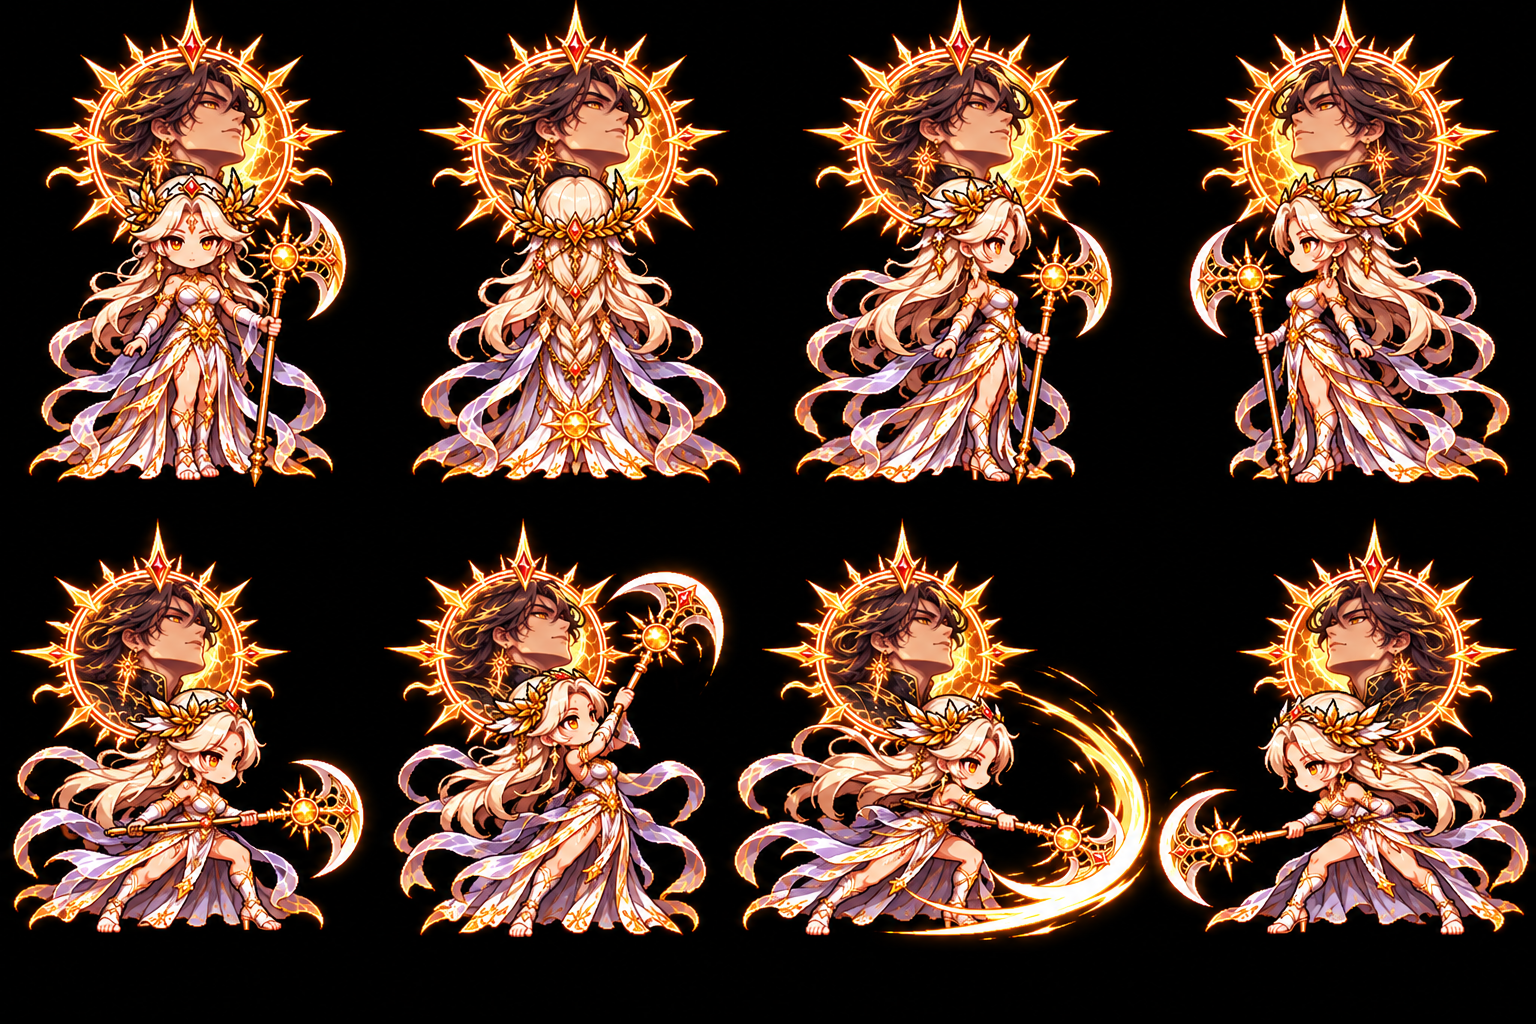
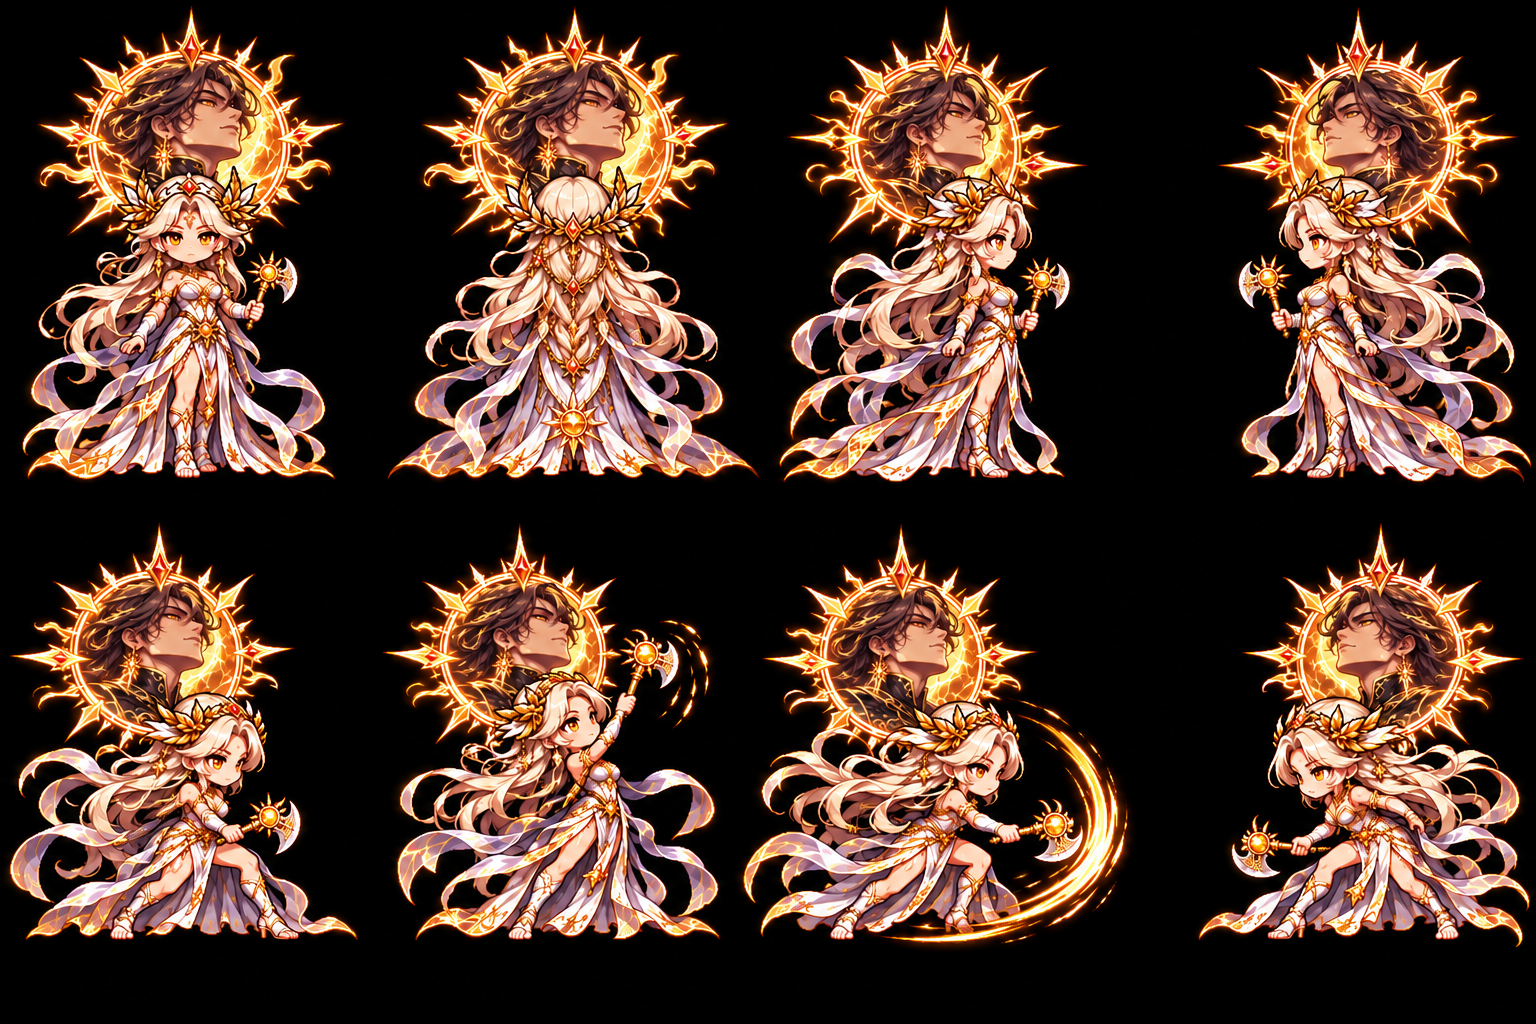
이클립스 태양 검격 모양을 사용자 그림대로(몸 양옆에서 앞 꼭짓점으로 모이는 날 5가지)·태양 모습 그림 새로 (0.49.19)

diff --git a/apps/client/src/patchNotes/latest.ts b/apps/client/src/patchNotes/latest.ts
@@ -4,24 +4,33 @@ import type { PatchNote } from "./types";
 // 이 파일이 12KB를 넘으면 오래된 버전을 새 묶음 파일로 옮기고 index.ts에 이어 붙임
 export const NOTES: PatchNote[] = [
   {
+    version: "0.49.19",
+    date: "2026-11-05",
+    items: {
+      ko: ["이클립스 태양: 검격 모양을 사용자 그림대로 (몸 양옆에서 앞쪽 꼭짓점으로 모이는 날 · 1 낮고 넓게 → 2 길게 → 3 작게 기울여 → 4 가늘고 길게 → 5 더 길게 깊게) · 태양 모습 그림 새로"],
+      en: ["Eclipse Sun: slash shapes now follow the user's sketches (a blade from both sides of her body to a point ahead · 1 low and wide → 2 long → 3 small and tilted → 4 thin and long → 5 even longer and deeper) · new Sun-form sprites"],
+      ja: ["エクリプス太陽：斬撃の形をユーザーの絵どおりに（体の両脇から前方の頂点へ集まる刃 · 1 低く広く → 2 長く → 3 小さく傾けて → 4 細く長く → 5 さらに長く深く）· 太陽の姿の絵を新しく"],
+    },
+  },
+  {
     version: "0.49.18",
     date: "2026-11-05",
     items: {
       ko: [
         "이클립스·펜리르: 한 번 누르면 콤보가 다 나가지 않고, 누를 때마다 한 동작씩 이어짐 (누르고 있으면 계속 이어지고, 1초 동안 안 누르면 처음 동작으로)",
-        "이클립스 태양: 검격을 새로 그림 · 90°로 꺾인 긴 날 하나(바깥 노랑·안쪽 빨강·은은한 빛) · 1 위에서 꺾임 → 2 가운데 → 3 아래에서 꺾임 → 4·5 깊게 찌름 · 꺾이는 끝이 앞으로 멀리 뻗어 떨어진 적에게도 닿음 · 맞는 범위도 그려진 날 모양대로",
+        "이클립스 태양: 검격을 새로 그림 · 몸 양옆에서 앞쪽 꼭짓점으로 모이는 날 하나(바깥 노랑·안쪽 빨강·은은한 빛) · 1 낮고 넓게 → 2 앞으로 길게 → 3 작게 기울여 → 4 가늘고 길게 찌름 → 5 더 길게 깊게 찌름 (떨어진 적에게도 닿음) · 태양 모습 그림 새로 · 맞는 범위도 그려진 날 모양대로",
         "이클립스 일식·영역·블랙홀·변신 이펙트를 깔끔하게 새로 그림 (분홍 보라 겉·검보라 속) · 게이지가 더 빨리 참",
         "펜리르: 몸을 키우고 모든 검기·베기 범위를 크게 (대검답게 넓게) · 천랑 낙인 착지 검기는 방 끝까지 날아감",
       ],
       en: [
         "Eclipse & Fenrir: one press no longer runs the whole combo; each press performs the next move (hold to keep going; after 1s without pressing it starts over)",
-        "Eclipse Sun: slashes redrawn · one long blade bent at 90° (gold outside, red inside, soft glow) · 1 bends high → 2 middle → 3 bends low → 4 and 5 stab deep · the bend reaches far ahead, hitting distant foes · hit areas follow the drawn blade",
+        "Eclipse Sun: slashes redrawn · one blade sweeping from both sides of her body to a point ahead (gold outside, red inside, soft glow) · 1 low and wide → 2 long → 3 small and tilted → 4 a thin long stab → 5 an even longer deep stab (reaches distant foes) · new Sun-form sprites · hit areas follow the drawn blade",
         "Eclipse's Eclipse-form, zone, black hole and transformation effects redrawn cleanly (pink-violet outside, dark violet inside) · the gauge fills faster",
         "Fenrir: bigger body and much wider sword waves and slashes (a true greatsword) · Sirius Brand's landing waves now fly to the edge of the room",
       ],
       ja: [
         "エクリプス・フェンリル：一度押すとコンボが全部出るのではなく、押すたびに1動作ずつ続く（押し続けると続き、1秒押さないと最初の動作に戻る）",
-        "エクリプス太陽：斬撃を描き直し · 90°に折れた長い刃ひとつ（外は金・内は赤・柔らかな光）· 1 上で折れる → 2 中央 → 3 下で折れる → 4・5 深く突く · 折れる先が前へ遠く伸び、離れた敵にも届く · 当たり範囲も描かれた刃の形どおり",
+        "エクリプス太陽：斬撃を描き直し · 体の両脇から前方の頂点へ集まる刃ひとつ（外は金・内は赤・柔らかな光）· 1 低く広く → 2 前へ長く → 3 小さく傾けて → 4 細く長く突く → 5 さらに長く深く突く（離れた敵にも届く）· 太陽の姿の絵を新しく · 当たり範囲も描かれた刃の形どおり",
         "エクリプスの日食・領域・ブラックホール・変身エフェクトをすっきり描き直し（外はピンク紫・内は黒紫）· ゲージが早くたまる",
         "フェンリル：体を大きくし、すべての剣気・斬撃の範囲を広く（大剣らしく）· 天狼の烙印の着地の剣気は部屋の端まで飛ぶ",
       ],

diff --git a/packages/shared/src/sim/eclipseCuts.ts b/packages/shared/src/sim/eclipseCuts.ts
@@ -1,25 +1,17 @@
-// 이클립스 태양 직각 검격 모양 (계산·그리기가 같이 씀): 꺾이는 점 하나 + 두 팔 (바라보는 쪽 기준, 거리는 검격 반지름 배율)
-// 1 위에서 꺾임(위 팔 짧고 아래 팔 긺) · 2 가운데서 꺾인 > · 3 아래에서 꺾임(위 팔 길고 아래 팔 짧음) · 4 앞으로 깊게 찌르는 가는 > (꺾이는 점은 모두 앞으로 길게) · 5타는 4타와 같음
-import { rot } from "./orbit";
+// 이클립스 태양 검격 모양 (계산·그리기가 같이 씀): 몸 양옆에서 시작해 앞쪽 꼭짓점으로 모이는 '^' 모양 (사용자 그림 2026-11-05)
+// 1 낮고 넓게 · 2 앞으로 길게 · 3 작게 한쪽으로 기울어짐 · 4 가늘고 길게 찌름 · 5 더 길게 깊게 찌름 (거리는 검격 크기 배율, 앞·옆)
 
-/** 꺾이는 점(앞·옆) · 두 팔 방향(뒤쪽 기준 도, 위 팔·아래 팔) · 두 팔 길이 */
-const SHAPES: readonly { v: readonly [number, number]; d: readonly [number, number]; l: readonly [number, number] }[] = [
-  { v: [1.9, -0.45], d: [190, 100], l: [0.9, 1.9] },
-  { v: [2.1, 0], d: [225, 135], l: [1.6, 1.6] },
-  { v: [1.9, 0.45], d: [260, 170], l: [1.9, 0.9] },
-  { v: [2.8, 0], d: [200, 160], l: [2.4, 2.4] },
+/** [한쪽 끝, 꼭짓점, 다른 쪽 끝] (앞, 옆) */
+const SHAPES: readonly (readonly [readonly [number, number], readonly [number, number], readonly [number, number]])[] = [
+  [[0.1, -1.15], [0.95, 0], [0.1, 1.15]],
+  [[0.1, -0.6], [1.9, 0.05], [0.1, 0.6]],
+  [[0.15, -0.45], [1.25, 0.32], [0.1, 0.55]],
+  [[0.1, -0.3], [2.3, 0], [0.1, 0.3]],
+  [[0.1, -0.34], [3.1, 0], [0.1, 0.34]],
 ];
-const DEG = Math.PI / 180;
 
-/** i번째 검격(0~3)의 세 점 [위 팔 끝, 꺾이는 점, 아래 팔 끝] · (x,y) 몸 · (fx,fy) 바라보는 쪽 · r 반지름 */
+/** i번째 검격(0~4)의 세 점 [한쪽 끝, 꼭짓점, 다른 쪽 끝] · (x,y) 몸 · (fx,fy) 바라보는 쪽 · r 크기 */
 export function sunCutPoints(x: number, y: number, fx: number, fy: number, r: number, i: number): [number, number][] {
   const sh = SHAPES[Math.min(SHAPES.length - 1, Math.max(0, i))]!;
-  const at = (a: number, b: number): [number, number] => [x + (fx * a - fy * b) * r, y + (fy * a + fx * b) * r];
-  const v = at(sh.v[0], sh.v[1]);
-  const arm = (deg: number, len: number): [number, number] => {
-    const [c, s] = rot(deg * DEG);
-    return at(sh.v[0] + c * len, sh.v[1] + s * len);
-  };
-  return [arm(sh.d[0], sh.l[0]), v, arm(sh.d[1], sh.l[1])];
+  return sh.map(([a, b]) => [x + (fx * a - fy * b) * r, y + (fy * a + fx * b) * r] as [number, number]);
 }
-

diff --git a/apps/client/src/game/render/eclipseBits.ts b/apps/client/src/game/render/eclipseBits.ts
@@ -103,13 +103,20 @@ export function embers(ctx: Ctx, pts: readonly Pt[], f: number, c: string, seed:
 }
 
 /**
- * 태양 직각 검격 i(0~3): 꺾이는 점에서 90°로 꺾인 날 하나 (모양은 sim/eclipseCuts · 바깥 노랑 · 안쪽 빨강 · 은은한 빛)
- * grow(0~1): 위 팔 끝에서부터 그어 나간 만큼 · thin: 두께 배율 · al: 투명도 · spark: 불티 진행(0 = 없음)
+ * 태양 검격 i(0~4): 몸 양옆에서 앞쪽 꼭짓점으로 모이는 '^' 날 (모양은 sim/eclipseCuts · 바깥 노랑 · 안쪽 빨강 · 은은한 빛)
+ * 날 사이 안쪽도 옅은 빨강으로 채움 · grow(0~1): 한쪽 끝에서부터 그어 나간 만큼 · thin: 두께 배율 · al: 투명도 · spark: 불티 진행
  */
 export function rightSlash(ctx: Ctx, x: number, y: number, fx: number, fy: number, r: number, i: number, grow: number, thin: number, al: number, spark = 0): void {
   if (al <= 0 || grow <= 0 || thin <= 0) return;
   const pts = sunCutPoints(x, y, fx, fy, r, i);
-  const w = Math.max(2, r * (i === 3 ? 0.16 : 0.2)) * thin;
+  if (grow >= 1) {
+    ctx.fillStyle = alpha(S_RED, 0.28 * al * thin);
+    ctx.beginPath();
+    for (const q of pts) ctx.lineTo(q[0], q[1]);
+    ctx.closePath();
+    ctx.fill();
+  }
+  const w = Math.max(2, r * (i === 0 ? 0.24 : i >= 3 ? 0.13 : 0.18)) * thin;
   paintBlade(ctx, (k) => blade(ctx, pts, 1, w * k, x, y, grow), S_GOLD, S_RED, al);
   embers(ctx, pts, spark, S_GOLD, Math.round(r * 10 + i));
 }

diff --git a/packages/shared/src/sim/eclipse.ts b/packages/shared/src/sim/eclipse.ts
@@ -39,10 +39,10 @@ function sunMove(s: RunState, i: number): void {
   const dmg = eclipsePower(p);
   const reach = sunReach(p);
   // 그려진 날을 따라 맞힘 (두 팔)
-  // 5타는 4타와 같은 깊은 찌르기 (더 아픔)
+  // 5타는 더 길게 깊게 찌름 (더 아픔)
   const fin = i >= 4;
   const r = reach * (fin ? E.sunFinSize * (hasPerk(p, "ecFlare") ? K.ecFlare.size : 1) : 1);
-  const [a, v, b] = sunCutPoints(p.x, p.y, p.faceX, p.faceY, r, Math.min(3, i));
+  const [a, v, b] = sunCutPoints(p.x, p.y, p.faceX, p.faceY, r, i);
   const w = r * E.cutW;
   const hit = new Set<number>();
   // 몸 바로 앞 반원(도끼를 휘두른 자리)도 같이 벰: 날 사이에 붙은 적이 빠지지 않게

diff --git a/packages/shared/src/weaponsEclipse.ts b/packages/shared/src/weaponsEclipse.ts
@@ -33,7 +33,7 @@ export const ECLIPSE = {
   cutMul: 1,
   /** 몸 바로 앞 반원도 베는 거리(크기 배율) */
   sunNear: 0.9,
-  /** 5타 (4타와 같은 깊은 찌르기): 피해 배율 · 크기 배율 */
+  /** 5타 (더 길게 깊게 찌름): 피해 배율 · 크기 배율 */
   sunFinMul: 1.5,
   sunFinSize: 1,
   /** 이글거리는 영역: 반지름 · 불태우는 틱 간격 · 한 번 피해(공격력 배율) · 치유의 빛 틱 간격 · 회복(최대 체력 비율) */

diff --git a/apps/client/src/game/render/eclipse.ts b/apps/client/src/game/render/eclipse.ts
@@ -47,7 +47,7 @@ export function drawEclipseFx(ctx: Ctx, fx: EffectState, snap: Snap): boolean {
       const grow = easeOut(Math.min(1, f / cut));
       const thin = (1 - after) ** 1.4;
       const al = Math.min(1, (1 - after) * 3);
-      rightSlash(ctx, x, y, fx.dirX, fx.dirY, fx.size, Math.min(3, w), grow, thin, al, after);
+      rightSlash(ctx, x, y, fx.dirX, fx.dirY, fx.size, w, grow, thin, al, after);
       break;
     }
     case "ecHew": {

diff --git a/packages/shared/src/constants.ts b/packages/shared/src/constants.ts
@@ -1,5 +1,5 @@
 /** 게임 버전 (패치 노트 맨 위 버전과 같게 유지) */
-export const GAME_VERSION = "0.49.18";
+export const GAME_VERSION = "0.49.19";
 
 /** 한 칸(타일) 크기, 픽셀 */
 export const TILE_SIZE = 16;
